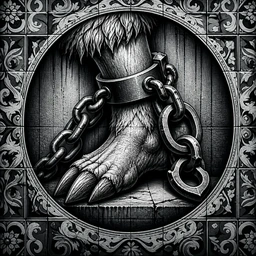
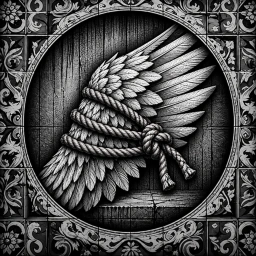
fix(combat): hold stack counts until damage pops land
Keep the ribbon count on the pre-hit amount while floating damage and absorbed hits play, then clear it when the snapshot catches up. Also ship the Hamstrung icon, marketing notes, and the common pin for the Last Fuse estimate tests.

diff --git a/game/core/src/scenes/Sandbox.ts b/game/core/src/scenes/Sandbox.ts
@@ -3968,6 +3968,9 @@ export class Sandbox extends PixiScene {
         if (replayActorId && !this.ensureReplayActiveUnit(replayActorId)) {
             return false;
         }
+        if (FightStateManager.getInstance().getFightProperties().hasFightStarted()) {
+            this.beginStackCountPresentation();
+        }
         switch (action.type) {
             case "start_fight": {
                 const started = this.startScene();
@@ -5324,6 +5327,11 @@ export class Sandbox extends PixiScene {
         units.set(target.getId(), target);
         preloadCombatSounds(Array.from(units.values(), (unit) => unit.getName()));
         const remainingAmounts = new Map(deathState?.amountsBefore);
+        for (const [id, unit] of units) {
+            if (unit instanceof RenderableUnit) {
+                unit.beginDamagePresentation(remainingAmounts.get(id) ?? unit.getAmountAlive());
+            }
+        }
         const consumeLoss = (unitId: string, unitsDied: number): number | undefined => {
             const before = remainingAmounts.get(unitId);
             if (before === undefined) return undefined;
@@ -5410,6 +5418,7 @@ export class Sandbox extends PixiScene {
                 // showed Dulling Defense before the knight had answered.
                 this.popRecordedDullingDefense(dullingEvents, new Set([strike.targetId]));
                 consumeLoss(strike.targetId, strike.unitsDied);
+                renderedVictim?.presentDamageCasualties?.(strike.unitsDied);
                 const from = source.getVisualCenter(gs);
                 const to = renderedVictim
                     ? victim.getVisualCenter(gs)
@@ -5735,7 +5744,7 @@ export class Sandbox extends PixiScene {
             const pos = unit?.getVisualCenter(gs) ?? projectBattlefieldPoint(entry.position, gs);
             const direction = attackerCenter ? { x: pos.x - attackerCenter.x, y: pos.y - attackerCenter.y } : undefined;
             const show = (): void => {
-                this.combatVisuals.showFloatingAbsorbed(pos, entry.amount, direction, entry.unitsDied);
+                this.combatVisuals.showFloatingAbsorbed(pos, entry.amount, direction, entry.unitsDied, unit);
             };
             if (delayMs > 0) {
                 this.scheduleSceneTimeout(show, delayMs);
@@ -17888,7 +17897,15 @@ export class Sandbox extends PixiScene {
                     this.replayRecorder.beginAction();
                 }
 
+                const amountsBefore = FightStateManager.getInstance().getFightProperties().hasFightStarted()
+                    ? this.beginStackCountPresentation()
+                    : new Map<RenderableUnit, number>();
                 const result = engine.apply(action);
+                for (const [unit, amount] of amountsBefore) {
+                    // Refused actions and raises have no casualty timeline to hold on the ribbon.
+                    if (!result.completed || unit.getAmountAlive() > amount) unit.clearDamagePresentation();
+                    else if (unit.getAmountAlive() < amount) unit.beginDamagePresentation(amount);
+                }
                 if (shouldRecord && result.completed) {
                     this.pendingReplayRecords.push({
                         action: cloneReplayData(action),
@@ -17901,6 +17918,16 @@ export class Sandbox extends PixiScene {
                 return result;
             },
         };
+    }
+    private beginStackCountPresentation(): Map<RenderableUnit, number> {
+        const amounts = new Map<RenderableUnit, number>();
+        for (const unit of this.unitsHolder.getAllUnits().values()) {
+            if (!(unit instanceof RenderableUnit)) continue;
+            const amount = unit.getAmountAlive();
+            amounts.set(unit, amount);
+            unit.beginDamagePresentation(amount);
+        }
+        return amounts;
     }
     private flushPendingReplayRecords(): void {
         if (this.replayRecordingSuspended || !this.shouldRecordSandboxReplay()) {

diff --git a/game/core/src/scenes/RenderableUnit.ts b/game/core/src/scenes/RenderableUnit.ts
@@ -2696,6 +2696,9 @@ export class RenderableUnit extends Unit {
     // Split preview: temporarily enlarge the count badge and (optionally) show a projected amount.
     private badgeEmphasisScale = 1;
     private badgeAmountOverride?: number;
+    /** Casualties advance with the damage pops while the engine may already hold the whole exchange. */
+    private combatAmountOverride?: number;
+    private combatAmountModel?: number;
     // Grayscale filter for the "revealed" mode (ranked placement: opponent roster shown in B&W).
     // Attached lazily from one immutable roster-wide instance.
     private desaturateFilter?: ColorMatrixFilter;
@@ -2856,6 +2859,8 @@ export class RenderableUnit extends Unit {
         ru.restingBadgeOffsetY = undefined;
         ru.movementBadgeOffsetY = undefined;
         ru.badgeAmountOverride = undefined;
+        ru.combatAmountOverride = undefined;
+        ru.combatAmountModel = undefined;
         ru.badgeHeader = undefined;
         ru.badgeFlagGlow = undefined;
         ru.activeTurnPointer = undefined;
@@ -3146,7 +3151,7 @@ export class RenderableUnit extends Unit {
                 y: pos.y,
                 side: gs.getCellSize() * Math.min(footprintWidth, footprintHeight) * perspectiveScale,
                 team: this.getTeam(),
-                amount: this.badgeAmountOverride ?? this.getAmountAlive(),
+                amount: this.getDisplayedAmount(),
                 compensation: legacyBoardChildScaleCompensation(inheritedScale.x, inheritedScale.y),
             });
             return;
@@ -8244,6 +8249,26 @@ export class RenderableUnit extends Unit {
         this.badgeEmphasisScale = 1;
         this.badgeAmountOverride = undefined;
     }
+    public getDisplayedAmount(): number {
+        if (this.combatAmountModel !== undefined && this.combatAmountModel !== this.getAmountAlive()) {
+            this.clearDamagePresentation();
+        }
+        return this.badgeAmountOverride ?? this.combatAmountOverride ?? this.getAmountAlive();
+    }
+    public beginDamagePresentation(amount = this.getAmountAlive()): void {
+        this.combatAmountOverride = Math.max(0, Math.floor(amount));
+        this.combatAmountModel = this.getAmountAlive();
+    }
+    public presentDamageCasualties(unitsDied: number): void {
+        this.getDisplayedAmount();
+        if (this.combatAmountOverride !== undefined && unitsDied > 0) {
+            this.combatAmountOverride = Math.max(0, this.combatAmountOverride - Math.floor(unitsDied));
+        }
+    }
+    public clearDamagePresentation(): void {
+        this.combatAmountOverride = undefined;
+        this.combatAmountModel = undefined;
+    }
     public setProjectedStackPower(power: number): void {
         this.projectedStackPower = Math.max(1, Math.min(HoCConstants.MAX_UNIT_STACK_POWER, Math.round(power)));
     }
@@ -8603,7 +8628,7 @@ export class RenderableUnit extends Unit {
             this.badgeDrawState = undefined;
         }
         const iconSide = gs.getCellSize() * this.visualScaleMultiplier;
-        const amount = this.badgeAmountOverride ?? this.getAmountAlive();
+        const amount = this.getDisplayedAmount();
         const stackPower = Math.max(0, Math.min(5, Math.round(this.projectedStackPower ?? this.getStackPower())));
         const header = this.badgeHeader!;
         const flagGlow = this.badgeFlagGlow!;
@@ -9110,6 +9135,7 @@ export class RenderableUnit extends Unit {
      * otherwise leave the on-board count frozen. Pure display reconciliation, hence a client concern.
      */
     public setRemainingStats(amountAlive: number, hp: number, amountDied: number): void {
+        this.clearDamagePresentation();
         const alive = Math.max(0, Math.floor(amountAlive));
         this.unitProperties.amount_alive = alive;
         this.initialUnitProperties.amount_alive = alive;

diff --git a/game/core/src/scenes/sandbox/CombatVisuals.ts b/game/core/src/scenes/sandbox/CombatVisuals.ts
@@ -1171,7 +1171,14 @@ export class CombatVisuals {
      * visual sync. `unitsDied` belongs only to this absorbed chunk, so its skull never duplicates a primary
      * or response hit's losses.
      */
-    public showFloatingAbsorbed(pos: HoCMath.XY, amount: number, direction?: HoCMath.XY, unitsDied?: number): void {
+    public showFloatingAbsorbed(
+        pos: HoCMath.XY,
+        amount: number,
+        direction?: HoCMath.XY,
+        unitsDied?: number,
+        unit?: Unit,
+    ): void {
+        if (unit instanceof RenderableUnit) unit.presentDamageCasualties(unitsDied ?? 0);
         const container = new Container();
         const label = new PixiText({ text: "ABSORBED", style: this.getAbsorbedLabelStyle() });
         label.anchor.set(0.5);
@@ -4728,6 +4735,7 @@ export class CombatVisuals {
         flagTopAnchor?: HoCMath.XY,
         audioUnit?: Pick<Unit, "getName" | "getId">,
     ): void {
+        if (audioUnit instanceof RenderableUnit) audioUnit.presentDamageCasualties(unitsDied ?? 0);
         if (amount > 0 && audioUnit) {
             const epoch = this.audioEpoch;
             playCombatSound(audioUnit.getName(), "hurt", audioUnit.getId(), false, () => epoch === this.audioEpoch);

diff --git a/game/core/src/scenes/RankedPlayScene.ts b/game/core/src/scenes/RankedPlayScene.ts
@@ -612,6 +612,7 @@ export const applyRankedUnitSnapshotStats = (unit: RenderableUnit, properties: U
         return false;
     }
 
+    unit.clearDamagePresentation();
     let changed = false;
     const hp = Math.max(0, Math.floor(properties.hp));
     if (unit.getAmountAlive() !== alive || unit.getHp() !== hp) {

diff --git a/marketing/x/engagement/TIMING.md b/marketing/x/engagement/TIMING.md
@@ -53,3 +53,66 @@ Thread open vs peak (this run only): early-morning Thu posts already collecting 
 Own account: pin live since Wed evening; no separate timing pull this run.
 
 Recommendation: still not enough data for a firm window (three runs). Early signal continues: official strategy/tactics accounts draw replies in the morning PT open (around 6:30–7:00 AM on this Thursday) and evening banner posts (around 8:00 PM) can peak overnight. Keep logging.
+
+## Thu 15 Oct 2026, 9:37 AM PT (daily engagement review)
+
+Own-account early metrics (not 24h snapshots; ages below the 20h floor):
+- Pin https://x.com/Heroes0fcrypto/status/2110567307013726582 posted Wed 8:03 PM PT (~13.5h old): 36 impressions, 2 likes, 1 reply (follow-back spam), 0 reposts/quotes. ER provisional (likes+replies+reposts+quotes)/views = 3/36 = 8.3% if counting the spam reply; 2/36 = 5.6% excluding it.
+- Queue tactics https://x.com/Heroes0fcrypto/status/2110730873159168376 posted Thu 6:48 AM PT (~2.7h old): 10 impressions, 0 likes, reply_count 1 = own link-reply only, 0 external replies.
+- Slot check: Wed 14 had only the evening pin (3-slot cadence starts Thu 15). Thu 6:48 AM posted; 11:48 AM and 4:48 PM still ahead today.
+
+Audience timing from prior reply-scan runs still points to morning PT opens for strategy accounts; own sample too small to recommend a change.
+
+Recommendation: keep current slots; first comparable 24h numbers land after the pin's 20h mark (~4:03 PM PT today) and the queue post's tomorrow morning.
+
+## Thu 15 Oct 2026, 11:40 AM PT run (window: 11:40 PM Wed – 11:40 AM Thu PT)
+
+Official game/studio posts in window (posted time PT, public metrics at read time ~11:42 AM). Skipped TFT Sivir/BoxBox streamer joke (weak tactics angle) and Lavapotion Spooktober (0 replies).
+- @RisingSpire, #TurnBasedThursday wishlist post, 10:30 AM: 26 impressions, 3 likes, 0 replies
+- @PlayHearthstone, Assemble keyword question, 10:00 AM: 7,030 impressions, 25 likes, 5 replies, 2 reposts
+- @TFT, Sivir 3 / @BoxBox, 10:00 AM: 9,870 impressions, 37 likes, 2 replies (skipped)
+- @totalwar, WH3 Patch 9.0.4 (re-read), 6:59 AM: 12,028 impressions, 239 likes, 15 replies, 14 reposts (was 10 replies at 7:46 AM)
+- @MeltedGames, Of Grit & Graves dice/Grit clip, 6:38 AM: 81 impressions, 3 likes, 0 replies
+- @OverhypeStudios, MENACE balancing (re-read), 6:35 AM: 1,618 impressions, 113 likes, 1 reply, 10 reposts
+- @Lavapotion, Spooktober lineup (re-read), 4:33 AM: 3,645 impressions, 106 likes, 0 replies (skipped)
+- @MightMagicGame, HoMM III Remake playtest (re-read), 1:00 AM: 2,627 impressions, 74 likes, 2 replies, 11 reposts
+- Timing only: @Dark_Gnosis (814 followers, below floor) hosted the weekly #TurnBasedThursday thread at 4:31 AM: 1,016 impressions, 31 replies
+
+Thread open vs peak (this run only): @totalwar's 6:59 AM patch post kept collecting replies through the morning (10 at 7:46 AM, 15 by 11:42 AM). The 10:00 AM card-game posts opened with a few replies inside the first ~2 hours. The #TurnBasedThursday indie thread opened early (4:31 AM) and drew the most replies of any turn-based post, mostly devs dropping their games.
+
+Recommendation: still not enough data for a firm window (four runs, one weekday plus one Thursday morning). Signal so far: strategy/tactics threads open 6:30–7:00 AM PT and keep gaining replies through late morning; Thursday has a ready-made #TurnBasedThursday audience early PT. Keep logging.
+
+## Thu 15 Oct 2026, 3:46 PM PT run (window: 3:46 AM – 3:46 PM Thu PT)
+
+Official game/studio posts in window (posted time PT, public metrics at read time ~3:47 PM). Skipped Rainbow6Game Siege posts (FPS, not tactics), Lavapotion Spooktober (0 replies), OneManLeft Halloween art (0 replies), mechabellum battle-contract skin (0 replies), TFT Sivir/BoxBox (weak angle). #TurnBasedThursday search found no new official game accounts at or above 1,000 followers.
+- @MARVELSNAP, Oct 15 OTA balance changes, 2:12 PM: 14,348 impressions, 191 likes, 23 replies, 11 reposts, 11 quotes
+- @PlayHearthstone, Pre-Release Tavern Brawl question, 2:00 PM: 4,745 impressions, 32 likes, 4 replies, 3 reposts
+- @PlayHearthstone, Yogg-Saron ten years on, 12:00 PM: 10,042 impressions, 70 likes, 4 replies, 3 reposts
+- @mechabellum, battle contract skin, 11:47 AM: 195 impressions, 5 likes, 0 replies (skipped)
+- @PlayHearthstone, Assemble keyword (re-read), 10:00 AM: 11,258 impressions, 38 likes, 5 replies (was 5 at 11:42 AM)
+- @TFT, Sivir 3 / @BoxBox (re-read), 10:00 AM: 15,756 impressions, 61 likes, 2 replies (skipped)
+- @totalwar, WH3 Patch 9.0.4 (re-read), 6:59 AM: 13,668 impressions, 257 likes, 15 replies (was 15 at 11:42 AM; plateaued)
+- @OverhypeStudios, MENACE balancing (re-read), 6:35 AM: 1,884 impressions, 129 likes, 1 reply
+- Timing only: @Dark_Gnosis #TurnBasedThursday host thread, 4:31 AM: 1,259 impressions, 36 replies (was 31 at 11:42 AM)
+
+Thread open vs peak (this run only): the busiest new thread was a balance-change post at 2:12 PM (@MARVELSNAP, 23 replies inside ~1.5 hours). Morning posts have largely plateaued by mid-afternoon (@totalwar stuck at 15 replies since late morning; Assemble flat at 5). Balance and patch posts draw the fastest replies of any post type seen so far, at both 7 AM (@totalwar) and 2 PM (@MARVELSNAP).
+
+Recommendation: still not enough data for a firm window (five runs, two days). Signal so far: replies on strategy threads arrive mostly in the first 2–4 hours after posting, so a reply draft is worth posting within ~2 hours of the source post; morning (6:30–11 AM PT) and early afternoon (12–2:30 PM PT) both open active threads. Keep logging.
+
+## Thu 15 Oct 2026, 7:42 PM PT run (window: 7:42 AM – 7:42 PM Thu PT)
+
+Official game/studio posts in window (posted time PT, public metrics at read time ~7:43 PM). Skipped Rainbow6Game Siege posts (FPS, not tactics), OneManLeft Halloween art (0 replies, not tactics), mechabellum battle-contract skin (0 replies), TFT Sivir/BoxBox (weak angle). No new root posts after ~2:12 PM PT from the tracked big accounts.
+- @PlayHearthstone, Pre-Release Tavern Brawl multitasking question, 2:00 PM: 7,491 impressions, 46 likes, 5 replies, 4 reposts, 1 quote
+- @MARVELSNAP, Oct 15 OTA (re-read, already surfaced), 2:12 PM: 22,917 impressions, 288 likes, 28 replies, 13 reposts, 12 quotes (was 23 replies at 3:46 PM)
+- @PlayHearthstone, Yogg-Saron (re-read, already surfaced), 12:00 PM: 14,167 impressions, 92 likes, 5 replies
+- @TerraRandoma, Those Far Stars #TurnBasedThursday drop, 9:40 AM: 73 impressions, 8 likes, 1 reply, 3 reposts
+- @RisingSpire, #TurnBasedThursday wishlist (re-read, already surfaced), 10:30 AM: 133 impressions, 11 likes, 1 reply
+- @WickedNightGame, battle animations #TurnBasedThursday, 8:57 AM: 113 impressions, 11 likes, 0 replies
+- @PlayHearthstone, Assemble keyword (re-read, already surfaced), 10:00 AM: 12,644 impressions, 43 likes, 5 replies
+- Timing only: @Dark_Gnosis #TurnBasedThursday host thread, 4:31 AM: 1,391 impressions, 40 replies (was 36 at 3:46 PM)
+
+Thread open vs peak (this run only): afternoon balance/OTA threads kept collecting after the prior run (@MARVELSNAP OTA from 23 replies at 3:46 PM to 28 by 7:43 PM). The 2:00 PM Hearthstone Pre-Release question still had an open reply thread at evening (5 replies). Morning #TurnBasedThursday studio drops stayed low-reply; the host thread itself kept gaining overnight into evening (36 → 40 replies). No new evening posts from FE Heroes, Total War, Lavapotion, or Overhype in this window.
+
+Own account: not pulled this run.
+
+Recommendation: still not enough data for a firm window (six runs, two weekdays). Signal so far: replies arrive mostly in the first 2–4 hours, and afternoon balance/question posts can keep collecting into the evening; a reply draft is still most useful within ~2 hours of the source post. Keep logging.

diff --git a/marketing/x/QUEUE.md b/marketing/x/QUEUE.md
@@ -4,16 +4,16 @@ Updated by xcom. Slot times (PT): 6:48 AM, 11:48 AM, 4:48 PM.
 
 ## Next up
 
-- **Story arc:** pin (#1) and queue tactics (#2) done. Next story is STORY.md #3 origin (first commit 12 Jun 2024) — good for an 11:48 or later slot today or Fri. Skip crypto chapter (#9) and then-and-now (#6) until Stepan answers open questions.
-- **Calendar:** next calendar day line is Fri 16 Chaos.
+- **Story arc:** pin (#1), queue tactics (#2), and origin (#3) done. Next story is STORY.md #5 why PvP / shrinking board (Sun plan) or #7 board-flash fix — skip crypto chapter (#9) and then-and-now (#6) until Stepan answers open questions.
+- **Calendar:** Chaos (Fri 16) went out Thu 4:48 PM slot. Next calendar line is Sat 17 the edge (STORY #4), then Mon 19 Life, Tue 20 crowd, etc.
 
 ## Today 2026-10-15 (Thu)
 
 | Slot (PT) | Plan | Status |
 |---|---|---|
 | 6:48 AM | Calendar: the queue (STORY #2 / CALENDAR Thu 15). Image: preview_game.webp. Reply with how-to-read-the-board link. | done — https://x.com/Heroes0fcrypto/status/2110730873159168376 |
-| 11:48 AM | Story or tactics filler: prefer STORY #3 origin (text-only) if facts are solid; else a safe tactics question. | queued |
-| 4:48 PM | Tactics: Chaos calendar line early, or a short PvP / shrinking-board detail from code. | queued |
+| 11:48 AM | Story: STORY #3 origin (text-only). Reply with GitHub client link. | done — https://x.com/Heroes0fcrypto/status/2110805506940153982 |
+| 4:48 PM | Tactics: Chaos calendar line (Fri 16) early, text-only. Reply with faction guide link. | done — https://x.com/Heroes0fcrypto/status/2110882073452167680 |
 
 ## Posted
 
@@ -21,3 +21,13 @@ Updated by xcom. Slot times (PT): 6:48 AM, 11:48 AM, 4:48 PM.
 |---|---|---|---|---|
 | 2026-10-14 20:03 | evening | story-pin | https://x.com/Heroes0fcrypto/status/2110567307013726582 | Pin live |
 | 2026-10-15 06:48 | morning | tactics-calendar | https://x.com/Heroes0fcrypto/status/2110730873159168376 | Reply https://x.com/Heroes0fcrypto/status/2110730955853861001 |
+| 2026-10-15 11:48 | midday | story-origin | https://x.com/Heroes0fcrypto/status/2110805506940153982 | Reply https://x.com/Heroes0fcrypto/status/2110805592323572126 |
+| 2026-10-15 16:54 | evening | tactics-calendar | https://x.com/Heroes0fcrypto/status/2110882073452167680 | Chaos, text-only. Reply https://x.com/Heroes0fcrypto/status/2110882131291635810 |
+
+## Tomorrow 2026-10-16 (Fri)
+
+| Slot (PT) | Plan | Status |
+|---|---|---|
+| 6:48 AM | Calendar: the edge (STORY #4 / CALENDAR Sat 17). Image preview_game.webp. Reply with five-positioning link. | queued |
+| 11:48 AM | Story: STORY #7 board-flash fix (text-only, from commit a2d9b16a), or #5 why the board shrinks if Stepan confirms narrowing's origin. | queued |
+| 4:48 PM | Tactics: Life (CALENDAR Mon 19) or a question for tactics players. | queued |

diff --git a/marketing/x/engagement/LOG.md b/marketing/x/engagement/LOG.md
@@ -4,3 +4,9 @@ Started 2026-10-14. Baseline week: 15-21 Oct.
 
 - 2026-10-14 20:03 PT: Pin posted and pinned by xcom on Stepan's request: https://x.com/Heroes0fcrypto/status/2110567307013726582 (257 chars; 280 limit, account not Premium).
 - 2026-10-15 06:48 PT: Queue tactics posted (calendar Thu 15): https://x.com/Heroes0fcrypto/status/2110730873159168376 (125 chars). Reply with board link: https://x.com/Heroes0fcrypto/status/2110730955853861001. Image preview_game.webp.
+
+- 2026-10-15 09:37 PT: Daily engagement pull saved to pulls/2026-10-15.json; score.py ingest wrote 0 snapshot cells (pin ~13.5h old, queue post ~2.7h — both outside 20–48h 24h window). Followers 90 (unchanged). Following 8 (+1 vs baseline 7). Tweet count 124. Tactics replies 0, token replies 0. Pin early: 36 views / 2 likes / 1 non-tactics reply (follow-back). Queue early: 10 views / 0 likes (reply_count is own link-reply). Comment-reply routine last checked 8:21 AM PT; no open questions.
+
+- 2026-10-15 11:48 PT: Story origin (STORY #3) posted: https://x.com/Heroes0fcrypto/status/2110805506940153982 (250 chars). Reply with GitHub client link: https://x.com/Heroes0fcrypto/status/2110805592323572126. Text-only.
+
+- 2026-10-15 16:54 PT: Chaos tactics post (calendar Fri 16, a slot early) posted: https://x.com/Heroes0fcrypto/status/2110882073452167680 (118 chars). Reply with faction guide link: https://x.com/Heroes0fcrypto/status/2110882131291635810. Text-only.

diff --git a/marketing/x/engagement/REPLIED.md b/marketing/x/engagement/REPLIED.md
@@ -4,7 +4,7 @@ Tracks replies, quotes and mentions on @Heroes0fcrypto's own posts that the comm
 Format: post id | author | URL | decision | handled at (PT)
 
 ## Last checked
-2026-10-15 8:21 AM PT (newest mention id seen: 2110567549566116259; no new replies/quotes/mentions since prior check)
+2026-10-15 8:18 PM PT (newest mention id seen: 2110567549566116259; no new replies/quotes/mentions since prior check; own posts checked through 2110882131291635810)
 
 ## Handled
 - 2110567549566116259 | @DARKHARVESTOR | https://x.com/DARKHARVESTOR/status/2110567549566116259 | skipped: follow-back request on the pin, not a question; we don't follow | 2026-10-14 10:28 PM PT

diff --git a/marketing/x/engagement/LEARNINGS.md b/marketing/x/engagement/LEARNINGS.md
@@ -1,3 +1,8 @@
 # LEARNINGS
 
 Started 2026-10-14. Baseline week: 15-21 Oct.
+
+## 2026-10-15 (daily)
+
+- Early signal only (no 24h snapshots yet): the story pin is outrunning the morning queue tactics post on views and likes (~36/2 vs ~10/0 at ~13.5h and ~2.7h). First external reply on the pin was a follow-back ask, not a tactics question — north star still 0.
+- Formats/slots: too few scored posts to compare; pin = evening story-pin, queue = morning tactics-calendar. Wait for 24h windows (pin eligible ~4:03 PM PT today; queue tomorrow morning).
